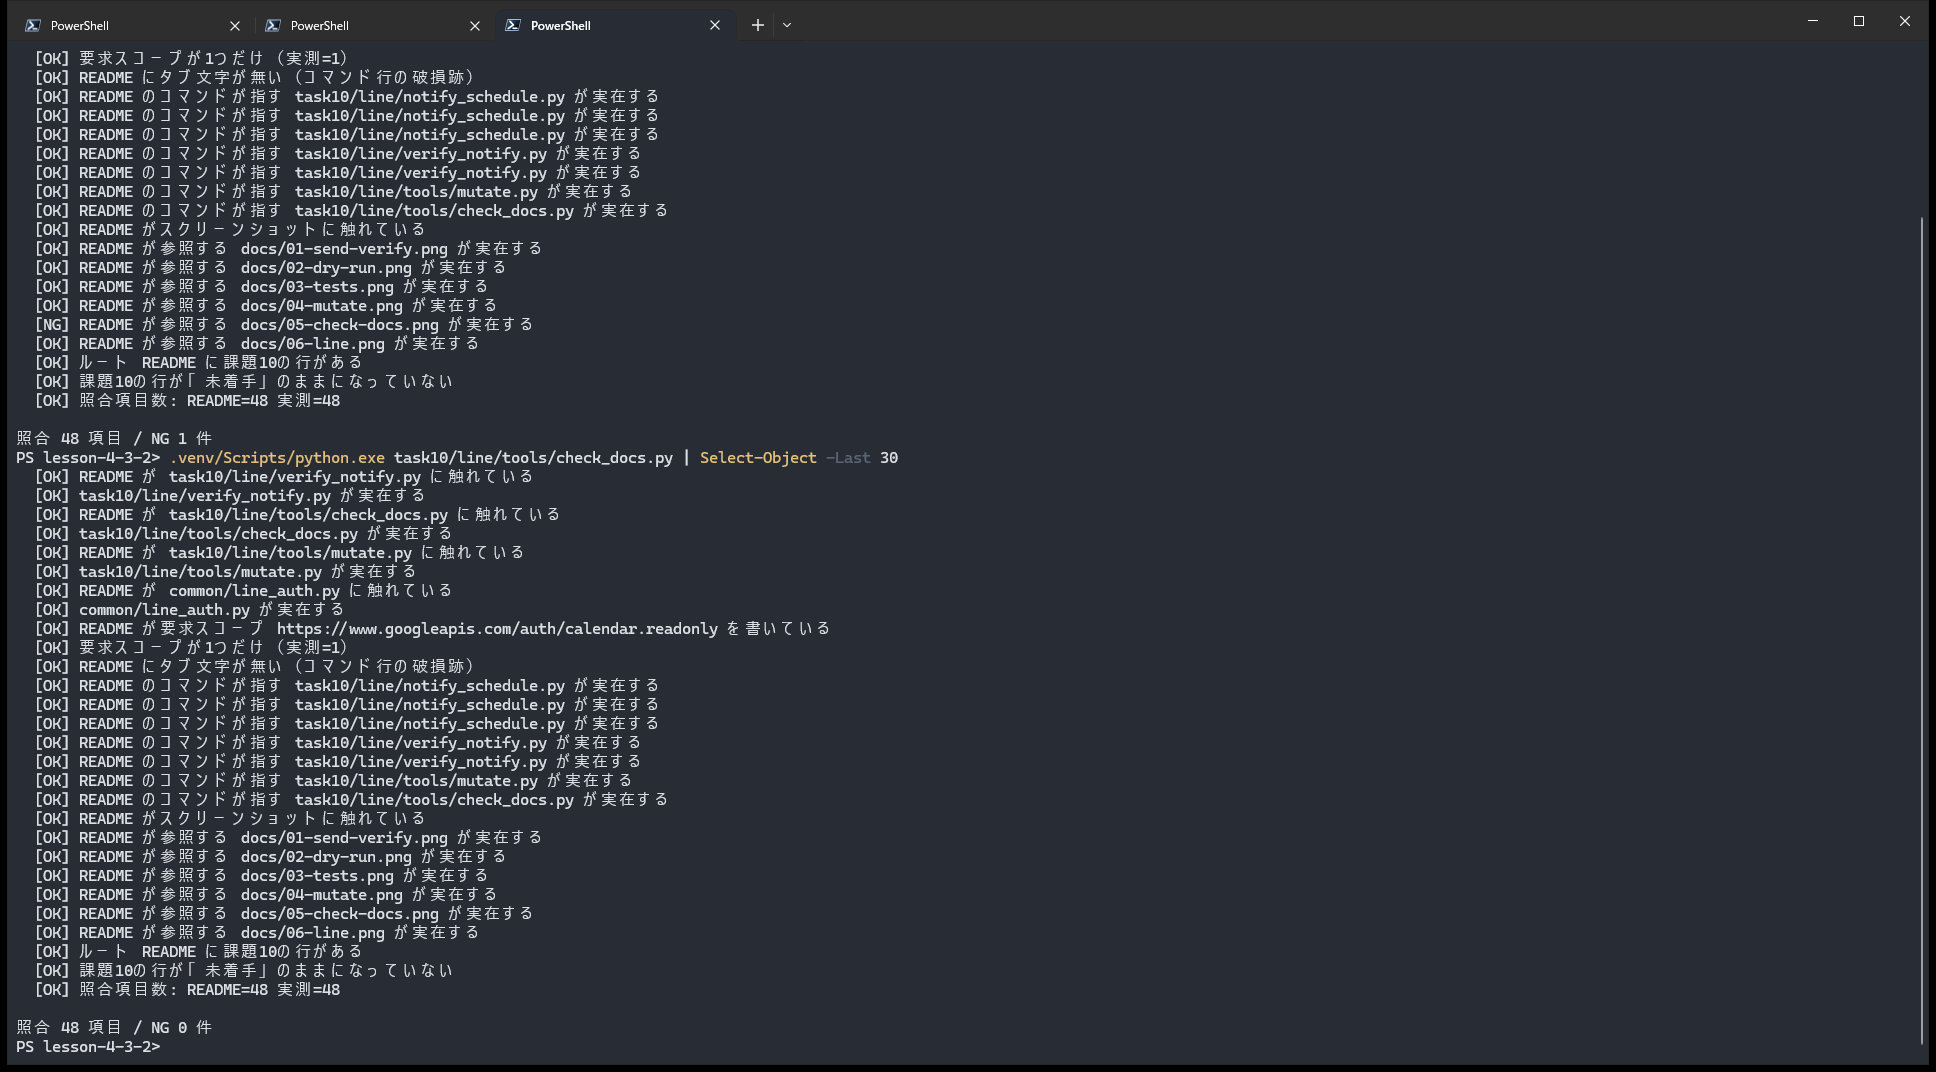
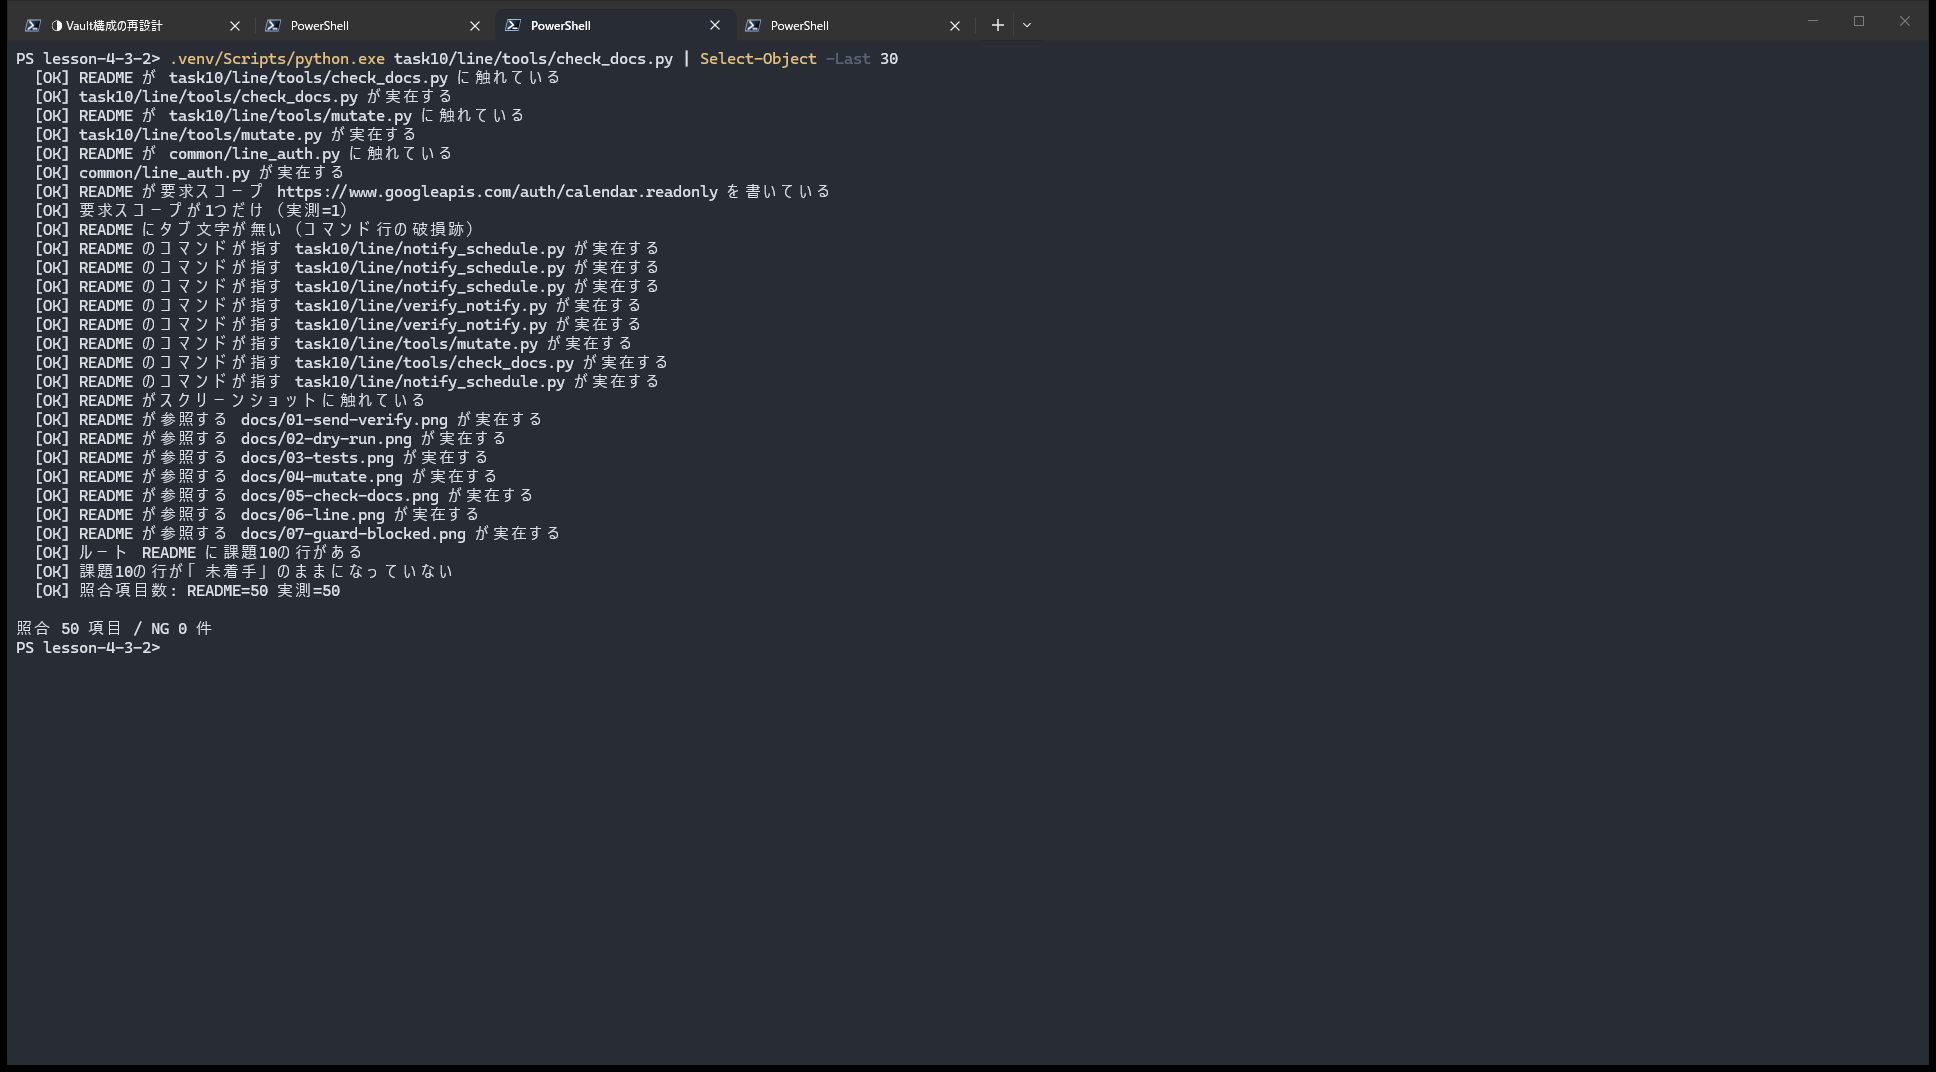
docs: ガードが止まる画面を撮り、README に7枚目と再現手順を足す
課題9のフィードバック（発展アイデアは実装して、その成果物のスクリーンショットを
載せること）に合わせて、送信前ガードが実際に止めるところを撮った。

これまでの6枚は全部「通過」しか写しておらず、「届かない相手を止める」という
主張の証拠が1枚も無かった。存在しない宛先IDで実行すると 404 で中止になり、
送信まで進まないので通数は消費しない。同じ画面に、直したばかりの 404 の文言
（理由を3つ並べて区別できないと言う）と、カレンダーの出力が1行も無いこと
（ガードがカレンダーより前にある証拠）が一緒に写る。

README には再現手順も足した。宛先だけ差し替えたファイルは .env.* に該当する
ので追跡されない（git check-ignore で確認済み）。

撮影中に、まったく別のウィンドウの中身が保存される事故が起きた。ターミナルは
タブが1つのウィンドウに同居するため、撮影スクリプトが「どのタブが手前か」を
見ていなかった。保存された画像を目で確かめて気づいた。タイトルを名指しして
違えば撮らずに落とすガードを撮影スクリプト側に足した。

照合項目数は 48 から 50 へ（画像1枚 +1、コマンド例1本 +1）。
05-check-docs.png も 50 項目の状態に撮り直した。NG 0 件。

diff --git a/task10/line/README.md b/task10/line/README.md
@@ -543,7 +543,7 @@ README とコードの機械照合:
 .venv/Scripts/python.exe task10/line/tools/check_docs.py
 ```
 
-照合 **48** 項目 / NG 0 件。**この数字も検査対象である**——検査を足したら
+照合 **50** 項目 / NG 0 件。**この数字も検査対象である**——検査を足したら
 ここを直さないと落ちる（項目9）。実機で動かすまで NG のまま残る項目があるが、
 **NG が出ていることが「まだ終わっていない」の表示**なので、消さずに残す。
 
@@ -555,8 +555,9 @@ README とコードの機械照合:
 | `docs/01-send-verify.png` | 本送信（message ID・通数 `5` → `6`）と、照合の14項目すべて一致。**合格でも「確認できないこと」5件が出ている**こと |
 | `docs/03-tests.png` | 課題10と共有部品で 359 件、リポジトリ全体で 1414 件 |
 | `docs/04-mutate.png` | わざと壊す検査の末尾と集計（kill 73 / SURVIVED 0 / NOT FOUND 0） |
-| `docs/05-check-docs.png` | この README とコードの機械照合（照合 48 項目 / NG 0 件） |
+| `docs/05-check-docs.png` | この README とコードの機械照合（照合 50 項目 / NG 0 件） |
 | `docs/06-line.png` | **実際に届いた本文。** API では確かめられない唯一のもの |
+| `docs/07-guard-blocked.png` | **ガードが実際に止めたところ。** 404 の理由を3つ並べて「区別できません」と言っており、**カレンダーの出力が1行も無い**（ガードがカレンダーより前にある証拠） |
 
 `06-line.png` に同じ本文が2通写っているのは、**実装の確認とスクリーンショット用で
 2回送ったから**である。1通目と2通目で `message_id` も通数も違い、README と
@@ -565,6 +566,22 @@ README とコードの機械照合:
 `05-check-docs.png` は**2回撮っている**。この検査は README が名前を出した画像の実在も
 数えるので、**自分自身がまだ無い状態で1回目を撮ることになる**（NG 1 件と出る）。
 撮って初めてファイルが存在し、2回目で NG 0 件になる。自己参照は1回では閉じない。
+
+### ガードが止まるところを、自分で再現する
+
+届かない宛先を用意すれば、送信前ガードが止まることを実際に確かめられる。
+**送信まで進まないので、通数は1通も消費しない。**
+
+`.env` と同じ書式で、宛先だけを存在しない ID にしたファイルを作る
+（`.env.*` は `.gitignore` に該当するので追跡されない）。
+
+```bash
+.venv/Scripts/python.exe task10/line/notify_schedule.py --env .env.demo
+```
+
+`[中止]` と `送信前の確認: 中止` が出て、**カレンダーの出力は1行も出ない**。
+これがガードをカレンダーより前に置いた効果である——届かないと分かった相手のために、
+Google の同意画面を開かせない。
 
 ## これから
 
